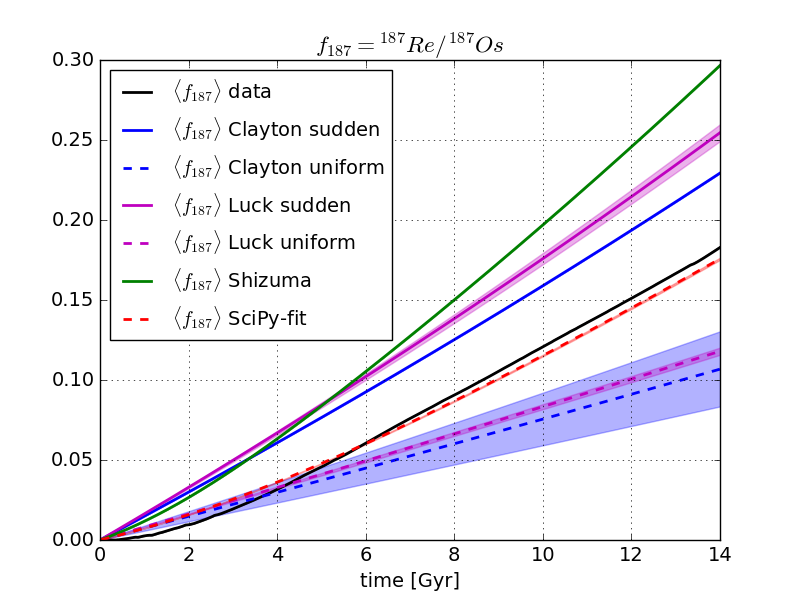
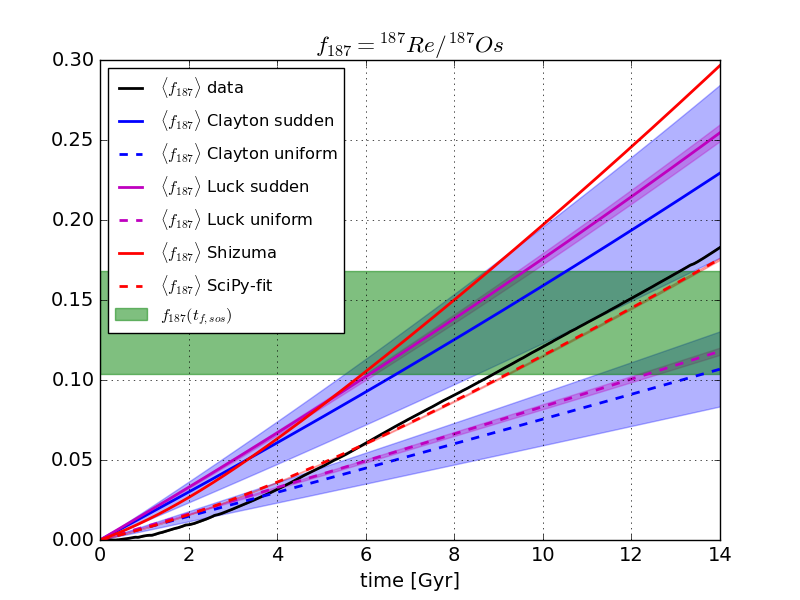
writing

Changed region(s): [[0.125, 0.09, 0.9062, 0.9]]

diff --git a/latex/thesis/texfiles/luck_cosmochronology_calc.tex b/latex/thesis/texfiles/luck_cosmochronology_calc.tex
@@ -2,7 +2,7 @@
 \renewcommand{\d}[1]{\frac{\textrm{d}#1}{\textrm{dt}}}
 \newcommand{\pd}[2]{\frac{\partial #1}{\partial #2}}
 
-Following the analytical approach of \mycite{luck80} which follows the approach of \mycite{clayton64} to the chemical evolution of the \re{187}-\os{187}-system. \\
+Following the analytical approach of \mycite{luck80} and \mycite{shizuma05}, which follows the approach of \mycite{clayton64} to the chemical evolution of the \re{187}-\os{187}-system. \\
 The solar values and evolution of \re{187}, \os{187}, \os{187} come, predominantly from three main sources;
 s-process contribution of \os{186} and \os{187}, r-process contribution of \re{187},
 and \betadecay from \re{187} to \os{187}.
@@ -98,9 +98,8 @@ The physical parameters are; the current Os-Re-fraction, $f_{187}(t_{0})$, the d
   \label{eq:parameter-sources}
   \begin{array}{rl}
   \lambda_\beta &= \ln(2)/T_{1/2} \\
-  T_{1/2} &= 41.2 \pm 1.3 Gyr \quad \textrm{from \mycite{galeazzi01}
-    \footnote{Half life of \re{187} taken from \mycite{galeazzi01}, although Shizuma gives 41.6 Gyr and no uncertainty/citation for his half-life \mycite{shizuma05}. There is a better estimate by Snelling which gives $41.577 \pm 0.12 Gyr$, which is a summary half-life data by a creationist science journal \mycite{snelling15}} } \\
-  t_0 - t_{f,sos} &= 4.568^{0.2\times 10^{-1}}_{0.4\times 10^{-1}} Gyr \quad \textrm{from \mycite{bouvier10}} \\
+  T_{1/2} &= 41.577 \pm 0.12 Gyr \quad \textrm{from \mycite{snelling15}} \\
+  t_0 - t_{f,sos} = \Delta t &= 4.568^{0.2\times 10^{-1}}_{0.4\times 10^{-1}} Gyr \quad \textrm{from \mycite{bouvier10}} \\
   \fracnow &= 0.226 \pm 5.79 \times 10^{-2} \quad \textrm{from eq.\ref{eq:shizuma-frac}}
   \end{array}
 \end{equation}
@@ -111,7 +110,6 @@ The physical parameters are; the current Os-Re-fraction, $f_{187}(t_{0})$, the d
 \end{equation}
 
 \underline{Error propagation of $\fracfsos$ from eq. \ref{eq:frac-fsos}:}
-\comment{This needs to be reexamined by someone who knows what they're doing!}
 \begin{align*}
   \left( \frac{\delta f(x,y,z)}{f(x_0, y_0, z_0)} \right)^2 &=
   \left(\pd{f}{x}\right)_{(x_0,y_0,z_0)}^2 \left( \frac{\delta x}{x_0} \right)^2
@@ -154,12 +152,24 @@ The physical parameters are; the current Os-Re-fraction, $f_{187}(t_{0})$, the d
     Inserting values for ($\Delta t$, $T_{1/2}$, $\fracnow$) with uncertainties from eq.\ref{eq:parameter-sources}
     \newline\noindent
     $ \Delta t = 4.5682 Gyr \quad \delta \Delta t = 0.4 \times 10^{-3} Gyr$ \newline\noindent
-    $T_{1/2} = 41.2 Gyr \quad \delta T_{1/2} = 1.3 Gyr $ \newline\noindent
+    $T_{1/2} = 41.577 Gyr \quad \delta T_{1/2} = 0.12 Gyr $ \newline\noindent
     $ \fracnow = 0.226 \quad \delta \fracnow = 57.9 \times 10^{-3} $
   }
-  &= 0.0563
-  \delta \fracfsos &= \sqrt{0.0563} \fracfsos \\
-  &= 0.0323
+  &= 0.0564 \\
+  \delta \fracfsos &= \sqrt{0.0564} \fracfsos = 0.0323
 \end{align*}
 
-This gives us that, at the formation of the solar system: $\fracfsos = 0.136 \pm 0.0323$
+\begin{table}
+  \begin{tabular}{|c|c|c|}
+    \hline Parameter & Value & Source \\
+    \hline
+    \hline $T_{1/2}$ & $41.577 \pm 0.12$ [Gyr] & \mycite{snelling15} \\
+    \hline $\Delta t$ & $4.5682 \pm 0.4 \times 10^{-3}$ [Gyr] & \mycite{bouvier10} \\
+    \hline $\fracnow$ & $ 0.226 \pm 57.9 \times 10^{-3}$ & eq.\ref{eq:shizuma-frac} (from \mycite{shizuma05}) \\
+    \hline $\fracfsos$ & $0.136 \pm 0.0323$ & eq.\ref{eq:parameter-sources} \\
+    \hline
+  \end{tabular}
+  \caption[Summary of parameters at \sos\ formation]{\label{tab:obs-cosmo-chronology}
+    Adopted and calculated values for the halflife of \re{187}, age of \sos, cosmic clock fraction $f_{187} = \os{187}/\re{187}$ at current time, and at the time of formation of the \sos.
+  }
+\end{table}

diff --git a/latex/thesis/chapter_results.tex b/latex/thesis/chapter_results.tex
@@ -371,9 +371,70 @@ It would be more meaningful to divide the distributions in two and calcualte the
 
 %(add plots of Os-187, Re-187, Os-187/Re-187 for MCExperiment w/NSMparameters)
 \section{Consider events of binary neutron star mergers}
-\importantcomment{Work in progress} \\
-\comment{Add section of NSM-param experiment here} \\
-\comment{include nsm-rate plots in section} \\
+
+\comment{fix table from commented region}
+%% Finding indeces of nsm
+%% t_now: index=500 t=1.40e+04
+%% 	rate=3.22e-01 +/- 1.58e-01/-1.58e-01
+%% 	int_num=1.82e+05 +/- 8.91e+04/-8.91e+04
+%% t_sos: index=339 t=9.49e+03
+%% 	rate=6.01e+00 +/- 2.94e+00/-2.94e+00
+%% 	int_num=1.63e+05 +/- 7.96e+04/-7.96e+04
+
+%% Finding indeces of sn1a
+%% t_now: index=500 t=1.40e+04
+%% 	rate=4.37e-43 +/- 6.42e-43/-6.42e-43
+%% 	int_num=6.09e+08 +/- 8.75e+08/-8.75e+08
+%% t_sos: index=339 t=9.49e+03
+%% 	rate=1.74e+04 +/- 2.51e+04/-2.51e+04
+%% 	int_num=5.57e+08 +/- 8.00e+08/-8.00e+08
+
+%% Finding indeces of sn2
+%% t_now: index=500 t=1.40e+04
+%% 	rate=0.00e+00 +/- 0.00e+00/0.00e+00
+%% 	int_num=4.24e+08 +/- 1.85e+08/-1.85e+08
+%% t_sos: index=339 t=9.49e+03
+%% 	rate=1.42e+04 +/- 6.16e+03/-6.16e+03
+%% 	int_num=3.82e+08 +/- 1.66e+08/-1.66e+08
+
+%% Finding indeces of bhnsm
+%% t_now: index=500 t=1.40e+04
+%% 	rate=0.00e+00 +/- 0.00e+00/0.00e+00
+%% 	int_num=0.00e+00 +/- 0.00e+00/0.00e+00
+%% t_sos: index=339 t=9.49e+03
+%% 	rate=0.00e+00 +/- 0.00e+00/0.00e+00
+%% 	int_num=0.00e+00 +/- 0.00e+00/0.00e+00
+
+\comment{fix figure from commented region}
+%% \begin{figure}
+%%   \centering
+%%   \begin{subfigure}{\subfigwidth}
+%%     \includegraphics[width=\linewidth]{results/MCExperiment_revised_2_delmax/sn1a.png}
+%%     \caption{ \label{fig:MCExperiment-delmax-sn1a}
+%%       Type 1a supernovae.
+%%     }
+%%   \end{subfigure}
+%%   \begin{subfigure}{\subfigwidth}
+%%     \includegraphics[width=\linewidth]{results/MCExperiment_revised_2_delmax/sn2.png}
+%%     \caption{ \label{fig:MCExperiment-delmax-sn2}
+%%       Type 2 supernovae.
+%%     }
+%%   \end{subfigure}
+%%   \begin{subfigure}{\figwidth}
+%%     \includegraphics[width=\linewidth]{results/MCExperiment_revised_2_delmax/nsm.png}
+%%     \caption{ \label{fig:MCExperiment-delmax-nsm}
+%%       Binary neutron star mergers.
+%%     }
+%%   \end{subfigure}
+%%   \caption[Rate of nucleosynthetic events]{ \label{fig:MCExperiment-delmax-rate}
+%%     All plots show rate of nucleosynthetic events (blue), and cumulative sum of events (red)
+%%     after \betadecay applied and negative isotope yields have been removed.
+%%     The nucleosynthetic events are type 1a (\ref{fig:MCExperiment-delmax-sn1a}) and type 2 (\ref{fig:MCExperiment-delmax-sn2})
+%%     supernovae, and binary neuron star mergers (\ref{fig:MCExperiment-delmax-nsm}).
+%%     The rate of each event follows the star formation rate (see figure \ref{fig:sfr}) with a scale factor and delay time distribution.
+%%   } 
+%% \end{figure}
+
 
 \FloatBarrier %end of subsection
 
